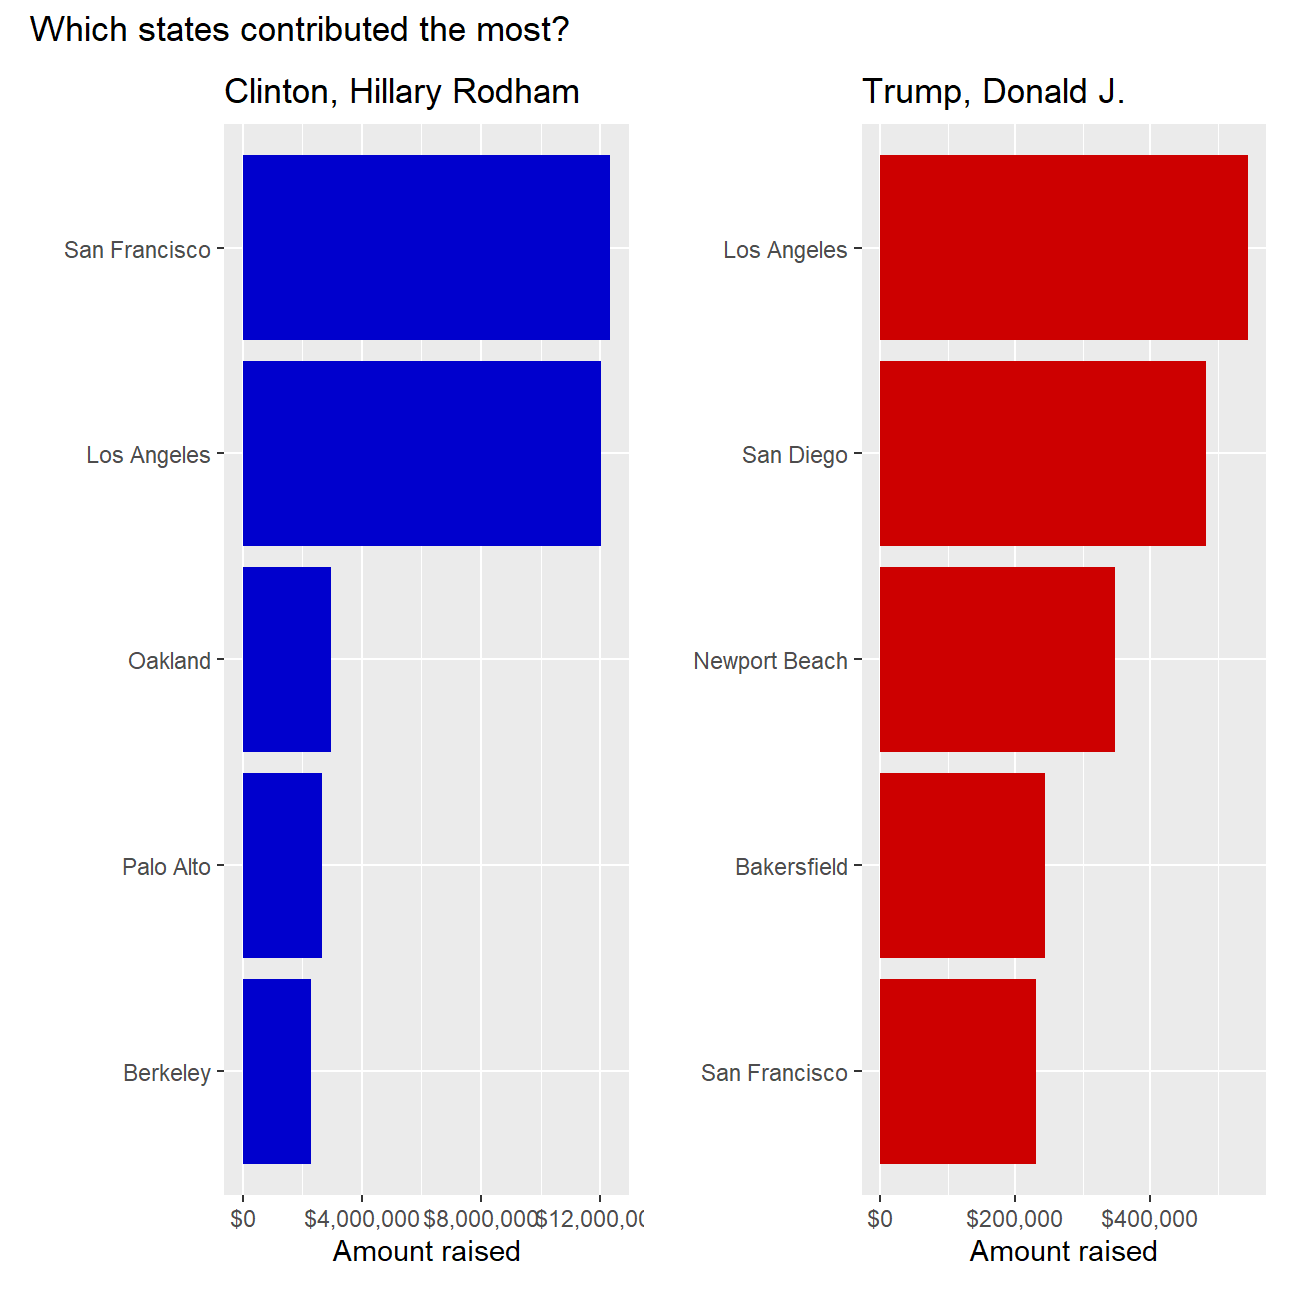
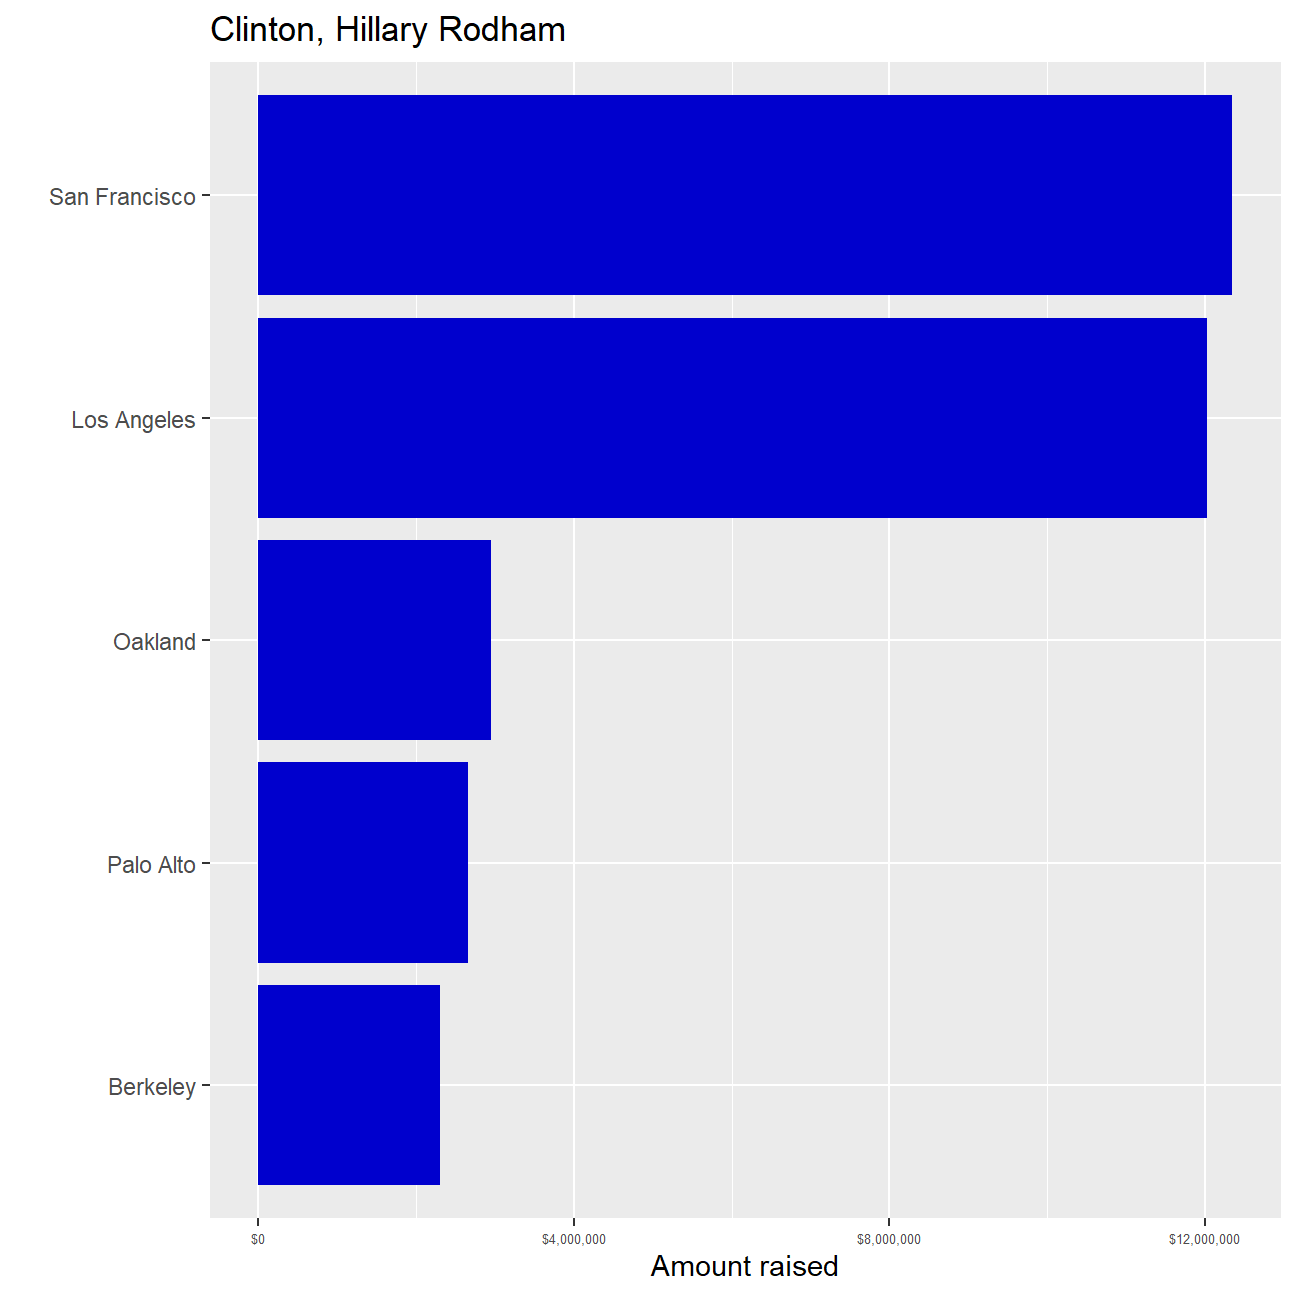
making slight changes

diff --git a/public/blogs/blog5/index.html b/public/blogs/blog5/index.html
@@ -141,6 +141,7 @@ median_contrb&lt;-CA_contributors_2016 %&gt;%
 
 median_contrb</code></pre>
 <p><img src="/blogs/blog5_files/figure-html/unnamed-chunk-3-1.png" width="100%" style="display: block; margin: auto;" /></p>
+<p><strong>Clinton had the highest average contribution but the lowest median contribution. Interestingly, if someone were to quote median numbers, Clinton’s name woul never appear! Sometimes, graphs can be deceptive if the actual information is hidden, such as whether the number is a mean or median.</strong></p>
 <pre class="r"><code>ZIPcodes = vroom::vroom(here::here(&quot;data&quot;,&quot;zip_code_database.csv&quot;))
 CA_contributors_join &lt;- merge(CA_contributors_2016,ZIPcodes, by = &quot;zip&quot;)
 CA_contributors_join_cleaned &lt;- CA_contributors_join %&gt;%
@@ -158,9 +159,8 @@ Trump &lt;- CA_contributors_join_cleaned %&gt;%
   group_by(primary_city) %&gt;%
   summarise(total = sum(contb_receipt_amt)) %&gt;%
   arrange(desc(total)) %&gt;%
-  slice_max(n=5, total)
-
-Clinton_plot&lt;-ggplot(Clinton, mapping = aes(x = total, y = reorder(primary_city,total))) +
+  slice_max(n=5, total)</code></pre>
+<pre class="r"><code>Clinton_plot&lt;-ggplot(Clinton, mapping = aes(x = total, y = reorder(primary_city,total))) +
   geom_col(fill = &quot;blue3&quot;)+
   labs(
     x = &quot;Amount raised&quot;,
@@ -178,7 +178,12 @@ Trump_plot&lt;-ggplot(Trump, mapping = aes(x = total, y = reorder(primary_city,t
     title = &quot;Trump, Donald J.&quot;) + 
   scale_x_continuous(labels=scales::dollar) +
   theme(axis.text.x=element_text(size=5))+
-  NULL</code></pre>
+  NULL
+
+Clinton_plot</code></pre>
+<p><img src="/blogs/blog5_files/figure-html/unnamed-chunk-5-1.png" width="648" style="display: block; margin: auto;" /></p>
+<pre class="r"><code>Trump_plot</code></pre>
+<p><img src="/blogs/blog5_files/figure-html/unnamed-chunk-5-2.png" width="648" style="display: block; margin: auto;" /></p>
 </div>
 
                         </div>

diff --git a/content/blogs/blog5.html b/content/blogs/blog5.html
@@ -71,6 +71,7 @@ median_contrb&lt;-CA_contributors_2016 %&gt;%
 
 median_contrb</code></pre>
 <p><img src="/blogs/blog5_files/figure-html/unnamed-chunk-3-1.png" width="100%" style="display: block; margin: auto;" /></p>
+<p><strong>Clinton had the highest average contribution but the lowest median contribution. Interestingly, if someone were to quote median numbers, Clinton’s name woul never appear! Sometimes, graphs can be deceptive if the actual information is hidden, such as whether the number is a mean or median.</strong></p>
 <pre class="r"><code>ZIPcodes = vroom::vroom(here::here(&quot;data&quot;,&quot;zip_code_database.csv&quot;))
 CA_contributors_join &lt;- merge(CA_contributors_2016,ZIPcodes, by = &quot;zip&quot;)
 CA_contributors_join_cleaned &lt;- CA_contributors_join %&gt;%
@@ -88,9 +89,8 @@ Trump &lt;- CA_contributors_join_cleaned %&gt;%
   group_by(primary_city) %&gt;%
   summarise(total = sum(contb_receipt_amt)) %&gt;%
   arrange(desc(total)) %&gt;%
-  slice_max(n=5, total)
-
-Clinton_plot&lt;-ggplot(Clinton, mapping = aes(x = total, y = reorder(primary_city,total))) +
+  slice_max(n=5, total)</code></pre>
+<pre class="r"><code>Clinton_plot&lt;-ggplot(Clinton, mapping = aes(x = total, y = reorder(primary_city,total))) +
   geom_col(fill = &quot;blue3&quot;)+
   labs(
     x = &quot;Amount raised&quot;,
@@ -108,5 +108,10 @@ Trump_plot&lt;-ggplot(Trump, mapping = aes(x = total, y = reorder(primary_city,t
     title = &quot;Trump, Donald J.&quot;) + 
   scale_x_continuous(labels=scales::dollar) +
   theme(axis.text.x=element_text(size=5))+
-  NULL</code></pre>
+  NULL
+
+Clinton_plot</code></pre>
+<p><img src="/blogs/blog5_files/figure-html/unnamed-chunk-5-1.png" width="648" style="display: block; margin: auto;" /></p>
+<pre class="r"><code>Trump_plot</code></pre>
+<p><img src="/blogs/blog5_files/figure-html/unnamed-chunk-5-2.png" width="648" style="display: block; margin: auto;" /></p>
 </div>

diff --git a/public/index.html b/public/index.html
@@ -125,8 +125,8 @@
                 <img src="img/pic04.jpg" alt="" />
             </span>
             <header class="major">
-                <h3><a href="/blogs/ipsum" class="link">Ipsum</a></h3>
-                <p>Nisl Sed Aliquam</p>
+                <h3><a href="/blogs/blog8" class="link">Financial Stocks in DJIA Index</a></h3>
+                <p>Study into Risk and Return</p>
             </header>
         </article>
         
@@ -190,7 +190,7 @@
                         <span class="icon alt fa-phone"></span>
                         
                         <h3>Phone</h3>
-                        <span>(&#43;44)7394</span>
+                        <span>(&#43;44)7000 7000</span>
                         
                     </div>
                 </section>

diff --git a/public/blogs/index.html b/public/blogs/index.html
@@ -133,7 +133,7 @@
                                 <header class="major">
                                     <h3>Financial Stocks in DJIA Index</h3>
                                 </header>
-                                <p>Financial Stocks in DJIA Index</p>
+                                <p>Study into risk and return</p>
                                 <ul class="actions">
                                     <li><a href="/blogs/blog8/" class="button">Learn more</a></li>
                                 </ul>

diff --git a/content/blogs/blog8.html b/content/blogs/blog8.html
@@ -3,7 +3,7 @@ categories:
 - ""
 - ""
 date: "2017-10-31T21:28:43-05:00"
-description: "Financial Stocks in DJIA Index"
+description: "Study into risk and return"
 draft: false
 image: pic10.jpg
 keywords: ""
